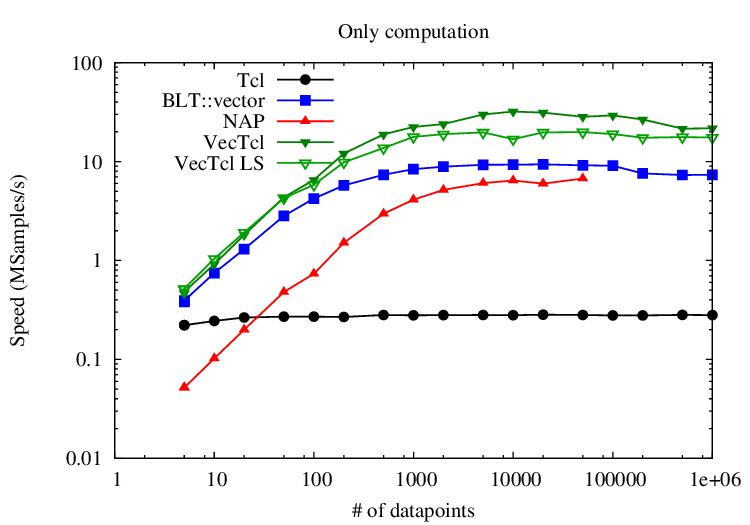
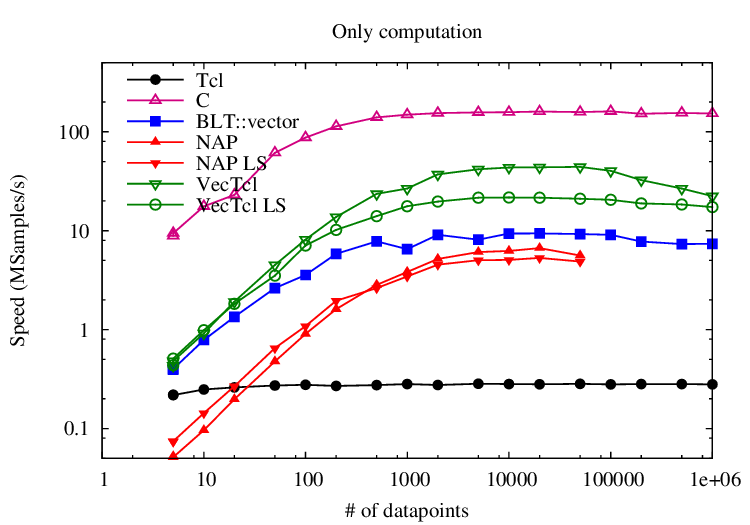
Add new linreg benchmark in C

diff --git a/benchmarks/linreg.md b/benchmarks/linreg.md
@@ -7,7 +7,8 @@ home: false
 ---
 
 Given 2 Tcl lists with doubles x and y, compute the linear regression
-line $$y\approx \alpha+\beta x$$. VecTcl is the clear winner in this contest:
+line $$y\approx \alpha+\beta x$$. VecTcl is the clear winner in this contest (apart from C, which is 
+included as the baseline):
 
 ![Linear regression, computation only]({{ site.baseurl }}/images/linreg_comp.png "Computation only")
 ![Linear regression, setup included]({{ site.baseurl }}/images/linreg_total.png "Total")
@@ -27,7 +28,42 @@ vexpr {
 }
 {% endraw %}
 {% endhighlight %}
-	
+
+Compared to the C solution, there is still a large gap to bridge. At small
+numbers of datapoints, the time is completely dominated by the one-time costs.
+The C solution comprises only 1 function call numarray::linreg, whereas the
+VecTcl solution compiles into 12 nested function calls. For large number of
+datapoints, the speed is limited by the memory bandwidth. The C solution needs
+only 2 passes over the dataset, whereas the VecTcl solution does 4.5 - hence a 
+slowdown of 2.5 is reached between 5000 and 20000 datapoints. For even larger
+numbers (>20000), VecTcl becomes slower again, as soon as the temporaries exceed
+the cache.
+
+This is the inner loop in C:
+
+{% highlight c %}
+{% raw %}
+int i;
+double xm=0.0; double ym=0.0;
+for (i=0; i<length; i++) {
+	xm+=x[i*xpitch]; 
+	ym+=y[i*ypitch];
+}
+xm /= length;
+ym /= length;
+
+double xsum = 0.0; double ysum = 0.0;
+for (i=0; i<length; i++) {
+	double dx=x[i*xpitch]-xm; 
+	double dy=y[i*ypitch]-ym;
+	xsum += dx*dy;
+	ysum += dx*dx;
+}
+
+double b = xsum / ysum;
+double a = ym - b*xm;
+{% endraw %}
+{% endhighlight %}
 
 And here comes the math:
 
@@ -65,5 +101,5 @@ $$
 </div>
 {% endraw %}
 
-Only the solution "VecTcl LS" uses the second formula, all others compute the
-direct formula. 
+Only "VecTcl LS" and "NAP LS" use the matrix decomposition, the other solutions compute the
+direct formula.
